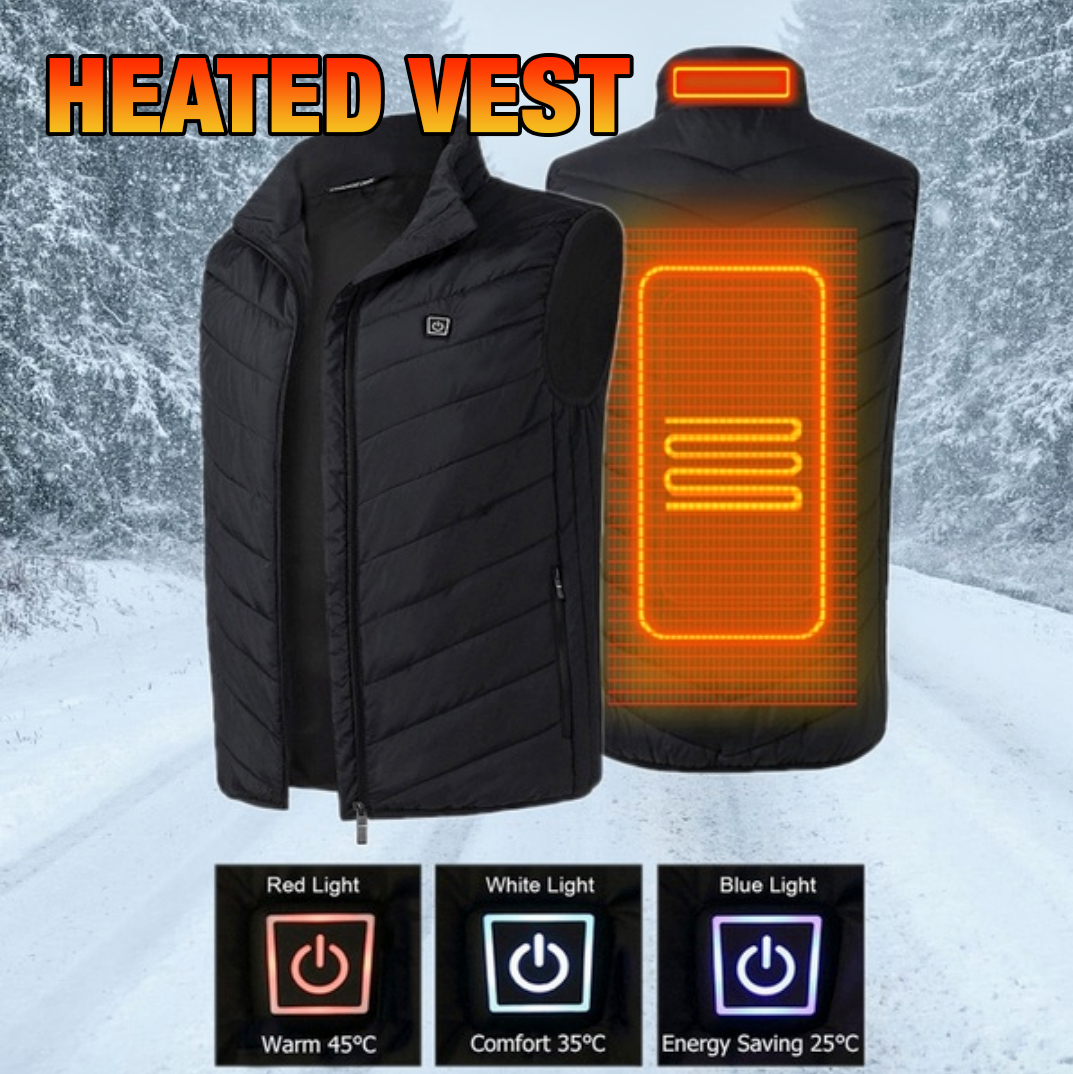
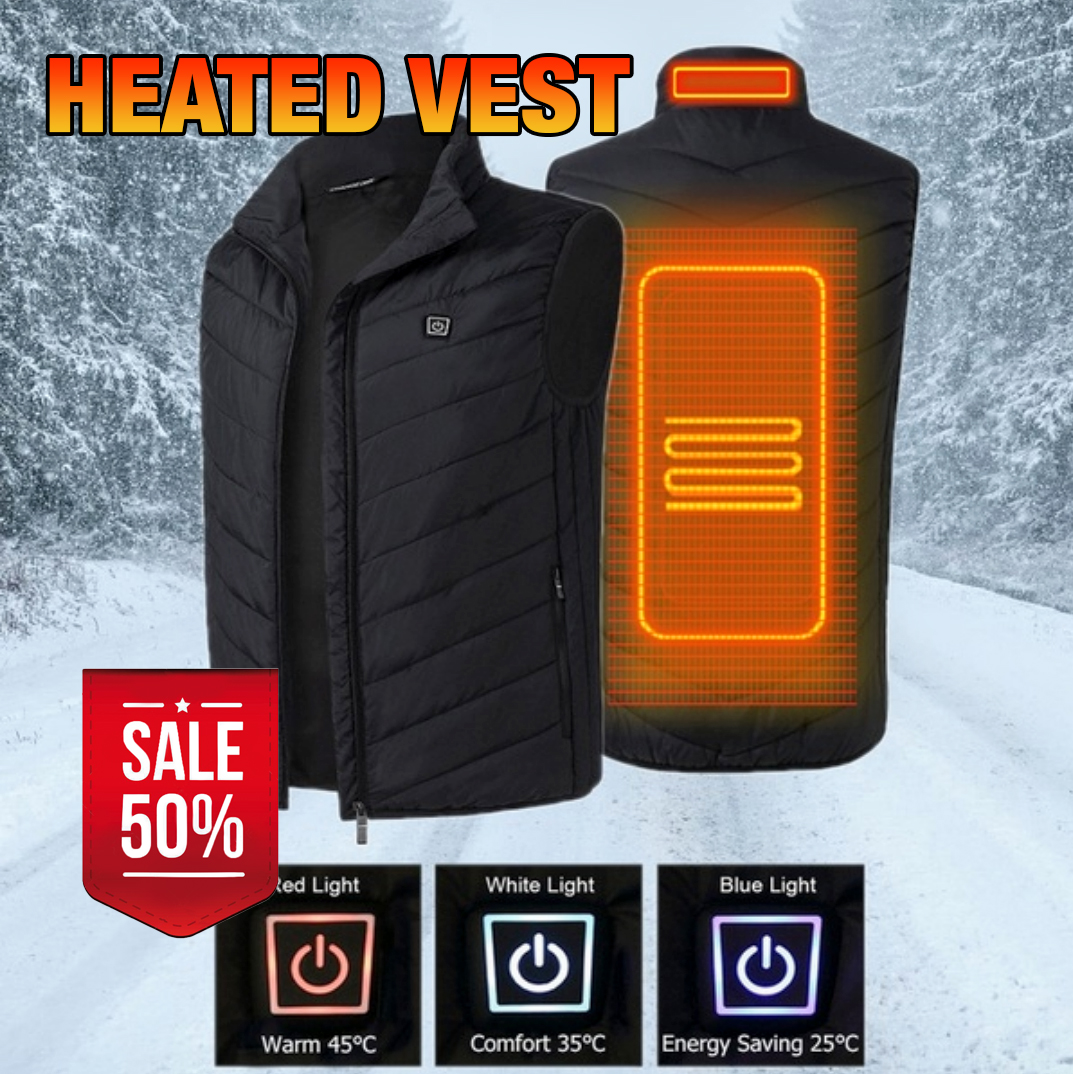
f

Changed region(s): [[0.0615, 0.6145, 0.2768, 0.8911]]

diff --git a/OFFERS-200/es/index.html b/OFFERS-200/es/index.html
@@ -27,7 +27,7 @@
             <div class="countbox"></div>
             <div class="price">
                 <span class="old-cost"><b> <x-oldprice> 98</x-oldprice>€</b><small></small></span>
-                <span class="new-cost"> <x-newprice> 49</x-newprice> €<small></small></span>
+                <span class="new-cost"> <x-newprice> 49</x-newprice>€<small></small></span>
             </div><!-- bizlife_inc -->
             <a href="#buy" class="button-m"> Ordenar con DESCUENTO</a>
             <div class="stock"> En stock 17 amuletos<span></span></div>

diff --git a/OFFERS-222/es/index.html b/OFFERS-222/es/index.html
@@ -74,7 +74,7 @@
     </section>
 
     <section id="page-order" class="page-order">
-        <h2 class="title" id="product-info"> (50% De Descuento) Cinturón Alpha</h2>
+        <h2 class="title" id="product-info"> (50% De Descuento) Heated Vest</h2>
         <form id="form" name="form" method="post">
             <div class="bdbox  total_money_box">
                 <label class="bdxx"> Encargar</label>

diff --git a/OFFERS-222/pt/index.html b/OFFERS-222/pt/index.html
@@ -74,7 +74,7 @@
     </section>
 
     <section id="page-order" class="page-order">
-        <h2 class="title" id="product-info"> (Desconto 50%) Cinto Alpha</h2>
+        <h2 class="title" id="product-info"> (Desconto 50%) Heated Vest</h2>
         <form id="form" name="form" method="post">
             <div class="bdbox  total_money_box">
                 <label class="bdxx"> Encomendar</label>

diff --git a/OFFERS-222/es/css/common.css b/OFFERS-222/es/css/common.css
@@ -40,3 +40,6 @@
 .video{
     width: 100%;
 }
+.swiper-container img{
+    width: 100%;
+}

diff --git a/OFFERS-222/pt/css/common.css b/OFFERS-222/pt/css/common.css
@@ -40,3 +40,6 @@
 .video{
     width: 100%;
 }
+.swiper-container img{
+    width: 100%;
+}
